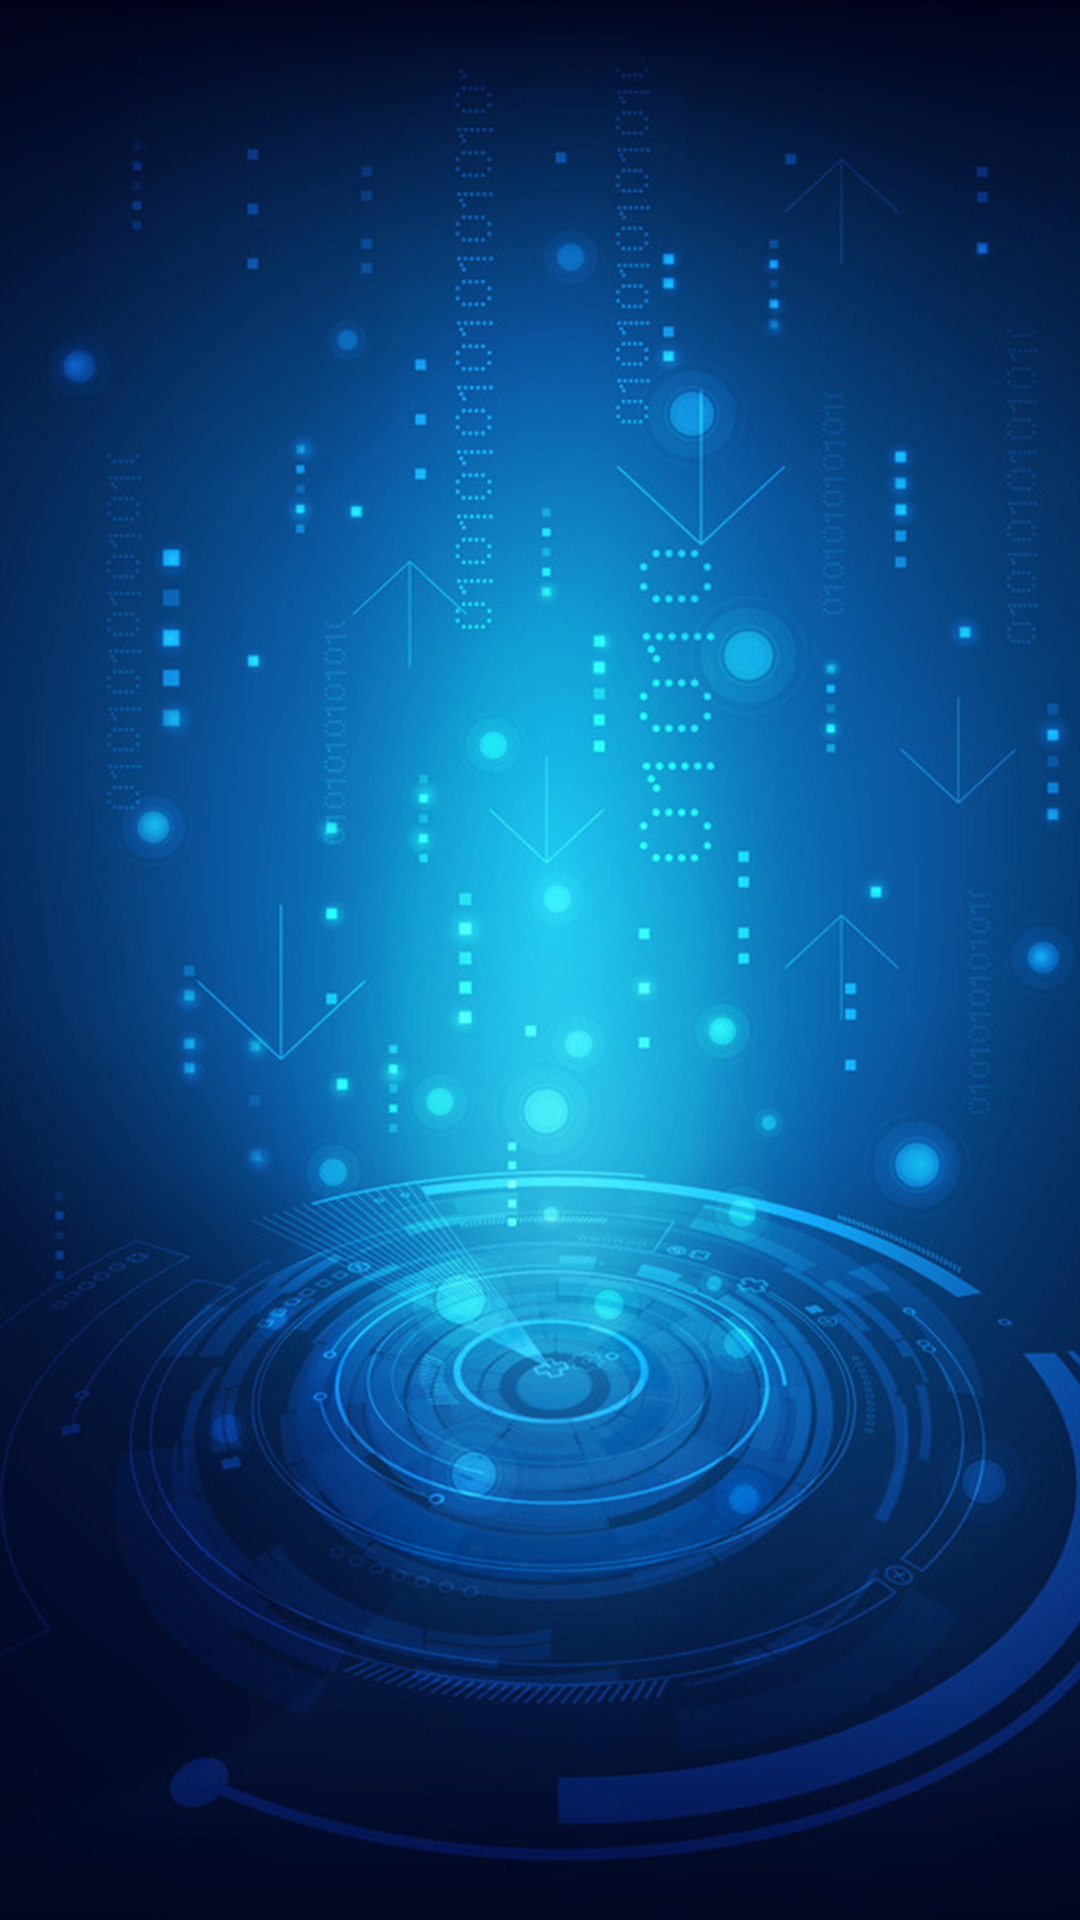
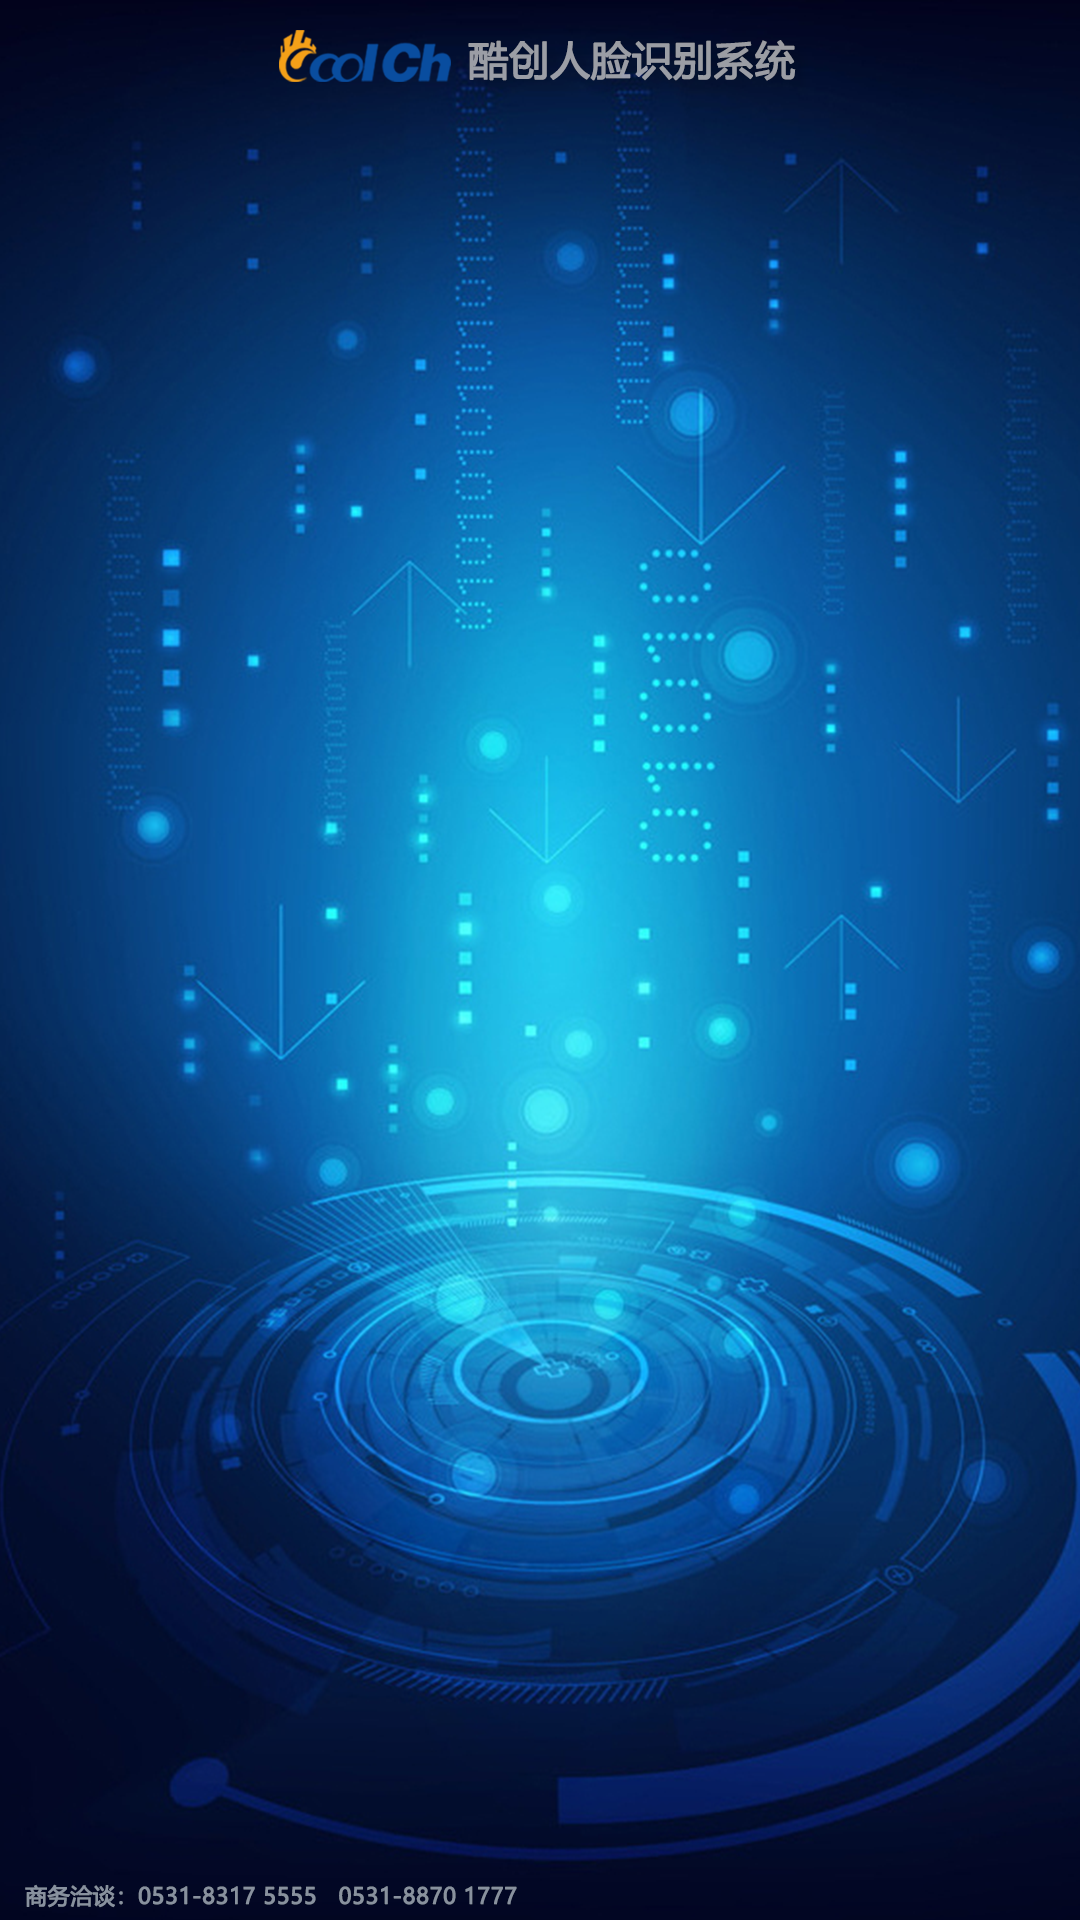
update.

Changed region(s): [[0.2444, 0.0, 0.7333, 0.0625], [0.2444, 0.9688, 0.4583, 1.0], [0.0306, 0.9688, 0.2139, 1.0]]

diff --git a/src/fe/app/app.html b/src/fe/app/app.html
@@ -1,7 +1,7 @@
 <div class="app">
   <div class="show-face-wrapper center">
 
-    <div class="title center">
+	<div class="title center" style="visibility:hidden">
       <img class="img" src="styles/images/title01.png"/>
       酷创人脸识别系统</div>
 
@@ -14,7 +14,7 @@
       </div>
       <div class="tip">
         <div class="icon"></div>
-        <div class="text" >
+        <div class="text" style="font-family: 微软雅黑;">
           山东酷创  欢迎您
         </div>
       </div>
